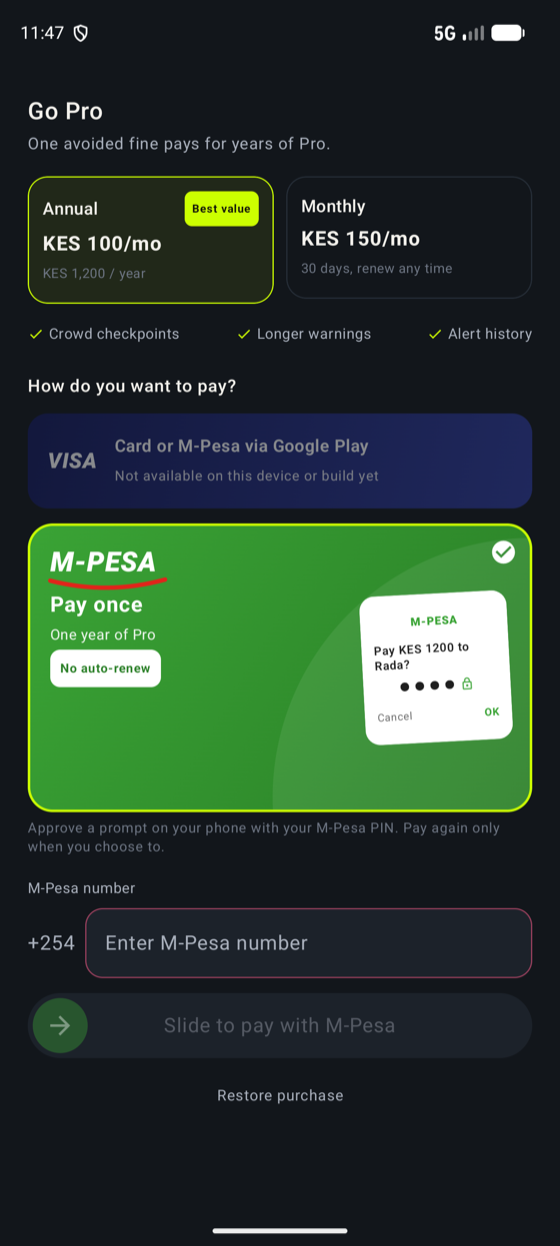
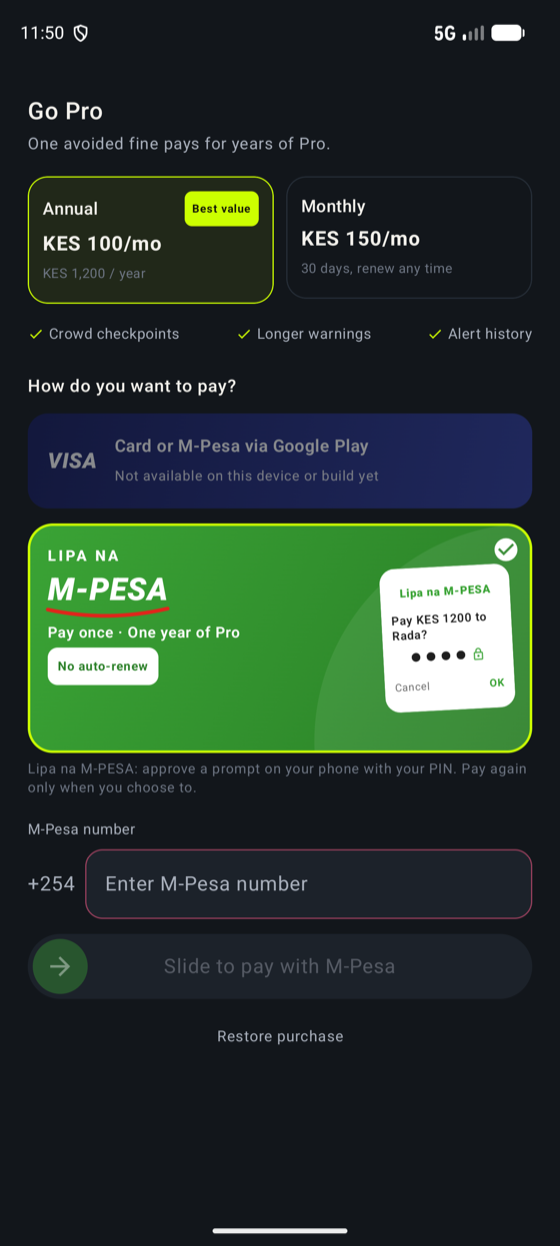
Paywall: shorter M-PESA card with Lipa na M-PESA branding

diff --git a/androidApp/src/main/java/com/rada/android/features/paywall/PaymentMethodCards.kt b/androidApp/src/main/java/com/rada/android/features/paywall/PaymentMethodCards.kt
@@ -138,7 +138,7 @@ fun MpesaStyleCard(
     Box(
         modifier
             .fillMaxWidth()
-            .aspectRatio(1.75f)
+            .aspectRatio(2.2f)
             .alpha(if (selected) 1f else 0.62f)
             .clip(shape)
             .background(Brush.linearGradient(listOf(PayBrand.MpesaGreen, PayBrand.MpesaDeep)))
@@ -146,15 +146,17 @@ fun MpesaStyleCard(
             .clickable(onClick = onClick)
     ) {
         Canvas(Modifier.fillMaxSize()) {
-            drawCircle(Color.White.copy(alpha = 0.08f), radius = size.height * 0.9f, center = Offset(size.width * 1.0f, size.height * 0.95f))
+            drawCircle(Color.White.copy(alpha = 0.08f), radius = size.height * 0.95f, center = Offset(size.width * 1.0f, size.height * 0.95f))
         }
-        Row(Modifier.fillMaxSize().padding(18.dp), horizontalArrangement = Arrangement.SpaceBetween) {
+        Row(Modifier.fillMaxSize().padding(horizontal = 16.dp, vertical = 14.dp), horizontalArrangement = Arrangement.SpaceBetween) {
             Column(Modifier.weight(1f), verticalArrangement = Arrangement.SpaceBetween) {
                 MpesaWordmark()
-                Column {
-                    Text("Pay once", color = Color.White, fontSize = 17.sp, fontWeight = FontWeight.Bold)
-                    Text("$periodLabel of Pro", color = Color.White.copy(alpha = 0.9f), fontSize = 11.5.sp)
-                }
+                Text(
+                    "Pay once · $periodLabel of Pro",
+                    color = Color.White,
+                    fontSize = 12.sp,
+                    fontWeight = FontWeight.SemiBold
+                )
                 Text(
                     "No auto-renew",
                     color = PayBrand.MpesaDeep,
@@ -163,12 +165,12 @@ fun MpesaStyleCard(
                     modifier = Modifier.clip(RoundedCornerShape(8.dp)).background(Color.White).padding(horizontal = 8.dp, vertical = 3.dp)
                 )
             }
-            Spacer(Modifier.width(10.dp))
+            Spacer(Modifier.width(8.dp))
             Box(Modifier.align(Alignment.CenterVertically)) {
                 StkPromptPreview(amountLabel)
             }
         }
-        if (selected) SelectedTick(Modifier.align(Alignment.TopEnd).padding(top = 12.dp, end = 12.dp), Color.White)
+        if (selected) SelectedTick(Modifier.align(Alignment.TopEnd).padding(top = 10.dp, end = 10.dp), Color.White)
     }
 }
 
@@ -176,19 +178,26 @@ fun MpesaStyleCard(
 private fun MpesaWordmark() {
     Column {
         Text(
+            "LIPA NA",
+            color = Color.White,
+            fontSize = 12.sp,
+            fontWeight = FontWeight.ExtraBold,
+            letterSpacing = 2.sp
+        )
+        Text(
             "M-PESA",
             color = Color.White,
-            fontSize = 22.sp,
+            fontSize = 25.sp,
             fontWeight = FontWeight.Black,
             fontStyle = FontStyle.Italic,
             letterSpacing = 0.5.sp
         )
-        Canvas(Modifier.width(92.dp).height(9.dp)) {
+        Canvas(Modifier.width(96.dp).height(8.dp)) {
             val path = Path().apply {
                 moveTo(0f, size.height * 0.2f)
                 quadraticTo(size.width * 0.5f, size.height * 1.5f, size.width, size.height * 0.1f)
             }
-            drawPath(path, PayBrand.MpesaRed, style = Stroke(width = 3.5.dp.toPx(), cap = StrokeCap.Round))
+            drawPath(path, PayBrand.MpesaRed, style = Stroke(width = 3.dp.toPx(), cap = StrokeCap.Round))
         }
     }
 }
@@ -197,14 +206,14 @@ private fun MpesaWordmark() {
 private fun StkPromptPreview(amountLabel: String) {
     Column(
         Modifier
-            .width(118.dp)
+            .width(104.dp)
             .rotate(-3f)
             .clip(RoundedCornerShape(12.dp))
             .background(Color.White)
-            .padding(10.dp),
+            .padding(8.dp),
         horizontalAlignment = Alignment.CenterHorizontally
     ) {
-        Text("M-PESA", color = PayBrand.MpesaGreen, fontSize = 9.sp, fontWeight = FontWeight.Black)
+        Text("Lipa na M-PESA", color = PayBrand.MpesaGreen, fontSize = 9.sp, fontWeight = FontWeight.Black)
         Spacer(Modifier.height(4.dp))
         Text("Pay $amountLabel to Rada?", color = Color(0xFF1E1E1E), fontSize = 9.5.sp, fontWeight = FontWeight.SemiBold, lineHeight = 12.sp)
         Spacer(Modifier.height(6.dp))

diff --git a/androidApp/src/main/java/com/rada/android/features/paywall/PaywallContentScreen.kt b/androidApp/src/main/java/com/rada/android/features/paywall/PaywallContentScreen.kt
@@ -134,15 +134,15 @@ fun PaywallContentScreen(
             )
             Spacer(Modifier.height(5.dp))
             Text(
-                "Approve a prompt on your phone with your M-Pesa PIN. Pay again only when you choose to.",
+                "Lipa na M-PESA: approve a prompt on your phone with your PIN. Pay again only when you choose to.",
                 color = RadaColors.TextMuted, fontSize = 11.sp, lineHeight = 15.sp
             )
         } else {
             MethodStrip(
                 brand = Brush.linearGradient(listOf(PayBrand.MpesaGreen, PayBrand.MpesaDeep)),
                 mark = "M-PESA",
-                title = "Pay once with M-Pesa",
-                subtitle = "No auto-renew · STK push",
+                title = "Lipa na M-PESA",
+                subtitle = "Pay once · No auto-renew",
                 enabled = true,
                 onClick = { onIntent(PaywallIntent.MethodSelected(PayMethod.MPESA)) }
             )
